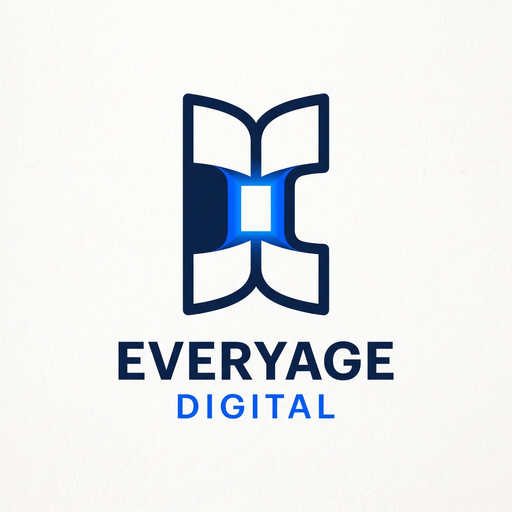
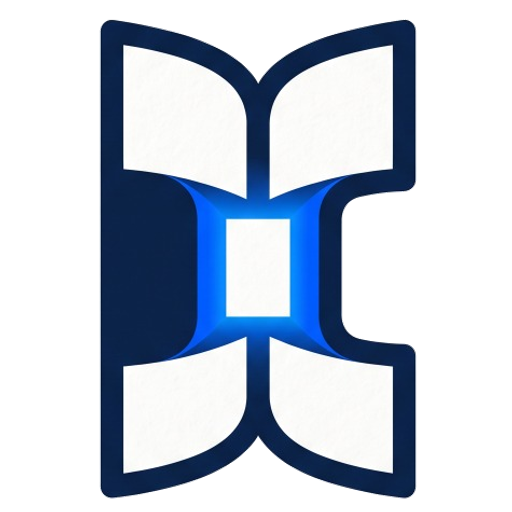
feat: add core layout components, navigation bars, and brand assets

diff --git a/src/app/admin/layout.tsx b/src/app/admin/layout.tsx
@@ -44,25 +44,28 @@ export default function AdminLayout({
       <aside className="hidden md:flex md:w-64 bg-slate-950/80 dark:bg-slate-950/90 backdrop-blur-2xl text-white flex-shrink-0 flex-col justify-between border-r border-white/10 relative z-10">
         <div>
           {/* Brand Header */}
-          <div className="p-4 border-b border-white/10 flex items-center justify-between gap-2">
-            <div className="flex items-center gap-2.5">
-              <div className="w-8 h-8 rounded-lg overflow-hidden bg-white p-0.5 shrink-0 border border-white/10 shadow-xs">
+          <div className="p-4 border-b border-white/10 flex items-center justify-between gap-3">
+            <div className="flex items-center gap-3 min-w-0">
+              <div className="h-9 w-9 overflow-hidden rounded-xl bg-white p-1 shadow-sm flex items-center justify-center shrink-0">
                 <Image
-                  src="/logo-mark.png"
+                  src="/logo.png"
                   alt="EveryAge Digital Logo"
                   width={32}
                   height={32}
-                  className="w-full h-full object-contain"
+                  className="h-full w-full object-contain"
+                  priority
                 />
               </div>
-              <div>
-                <span className="font-bold text-xs tracking-tight text-white uppercase block leading-none">EveryAge Digital</span>
-                <span className="text-[10px] uppercase font-mono tracking-widest text-neutral-400 block mt-1">
-                  Control Center
+              <div className="min-w-0">
+                <span className="font-bold text-xs tracking-tight text-white uppercase block leading-tight truncate">
+                  EVERYAGE DIGITAL
+                </span>
+                <span className="text-[9px] uppercase font-mono tracking-widest text-neutral-400 block mt-0.5 truncate">
+                  OWNER CONTROL CENTER
                 </span>
               </div>
             </div>
-            <span className="text-[10px] bg-emerald-950 text-emerald-300 border border-emerald-800 px-1.5 py-0.5 rounded font-mono">
+            <span className="text-[10px] bg-emerald-950 text-emerald-300 border border-emerald-800 px-1.5 py-0.5 rounded font-mono shrink-0">
               v1.0
             </span>
           </div>

diff --git a/src/components/ui/SiteHeader.tsx b/src/components/ui/SiteHeader.tsx
@@ -82,23 +82,13 @@ export function SiteHeader() {
       <div className="max-w-7xl mx-auto px-4 sm:px-6 lg:px-8 h-16 flex items-center justify-between gap-3 relative">
         {/* Logo & Brand Identity */}
         <div className="flex items-center gap-6">
-          <Link href="/" className="flex items-center gap-2.5 sm:gap-3 group touch-target">
-            <div className="relative w-8 h-8 sm:w-9 sm:h-9 rounded-xl overflow-hidden bg-white p-0.5 border border-purple-200/60 dark:border-white/10 shadow-xs shrink-0 group-hover:scale-105 transition-transform duration-200">
-              <Image
-                src="/logo-mark.png"
-                alt="EveryAge Digital Logo"
-                width={36}
-                height={36}
-                className="w-full h-full object-contain"
-                priority
-              />
-            </div>
-            <div className="flex items-baseline gap-1.5">
-              <span className="font-serif text-xl sm:text-2xl font-bold tracking-tight text-slate-900 dark:text-white group-hover:text-purple-600 dark:group-hover:text-blue-400 transition-colors">
-                EveryAge
-              </span>
-              <span className="text-[10px] sm:text-xs font-mono uppercase tracking-widest text-purple-700 dark:text-blue-400 font-semibold bg-purple-500/10 border border-purple-500/20 dark:bg-blue-500/10 dark:border-blue-500/20 px-1.5 sm:px-2 py-0.5 rounded-md backdrop-blur-md">
-                Digital
+          <Link href="/" className="hover:opacity-90 transition-opacity touch-target">
+            <div className="flex items-center gap-3">
+              <div className="h-10 w-10 overflow-hidden rounded-xl bg-white p-1 shadow-sm flex items-center justify-center shrink-0">
+                <Image alt="EveryAge Digital" className="h-full w-full object-contain" height={36} priority src="/logo.png" width={36}/>
+              </div>
+              <span className="font-bold text-lg text-slate-900 dark:text-white tracking-tight">
+                EveryAge <span className="text-xs uppercase tracking-widest text-blue-500 font-semibold ml-1">Digital</span>
               </span>
             </div>
           </Link>

diff --git a/src/components/ui/SiteFooter.tsx b/src/components/ui/SiteFooter.tsx
@@ -67,21 +67,21 @@ export function SiteFooter() {
       <div className="max-w-7xl mx-auto space-y-8 sm:space-y-10">
         {/* Brand Banner with Logo */}
         <div className="flex flex-col sm:flex-row sm:items-center justify-between gap-4 pb-8 border-b border-purple-200/40 dark:border-white/10">
-          <Link href="/" className="flex items-center gap-3.5 group">
-            <div className="w-12 h-12 rounded-2xl overflow-hidden bg-white p-1 border border-purple-200/60 dark:border-white/10 shadow-sm shrink-0 group-hover:scale-105 transition-transform duration-200">
+          <Link href="/" className="flex items-center gap-3.5 group hover:opacity-90 transition-opacity">
+            <div className="h-11 w-11 overflow-hidden rounded-xl bg-white p-1 shadow-sm flex items-center justify-center shrink-0">
               <Image
-                src="/logo-mark.png"
+                src="/logo.png"
                 alt="EveryAge Digital Logo"
-                width={48}
-                height={48}
-                className="w-full h-full object-contain"
+                width={40}
+                height={40}
+                className="h-full w-full object-contain"
               />
             </div>
             <div>
               <div className="flex items-baseline gap-1.5">
                 <span className="font-serif text-2xl font-bold text-slate-900 dark:text-white">EveryAge</span>
                 <span className="text-xs font-mono uppercase tracking-widest text-purple-700 dark:text-blue-400 font-semibold bg-purple-500/10 border border-purple-500/20 dark:bg-blue-500/10 dark:border-blue-500/20 px-1.5 py-0.5 rounded-md">
-                  Digital
+                  DIGITAL
                 </span>
               </div>
               <p className="text-xs text-slate-500 dark:text-slate-400 mt-1">

diff --git a/src/components/admin/AdminMobileNav.tsx b/src/components/admin/AdminMobileNav.tsx
@@ -55,18 +55,19 @@ export function AdminMobileNav() {
       {/* Top Header Row */}
       <div className="flex items-center justify-between px-4 py-2.5">
         <div className="flex items-center gap-2.5">
-          <div className="w-7 h-7 rounded-lg overflow-hidden bg-white p-0.5 shrink-0 border border-white/10 shadow-xs">
+          <div className="h-8 w-8 overflow-hidden rounded-xl bg-white p-0.5 shadow-sm flex items-center justify-center shrink-0">
             <Image
-              src="/logo-mark.png"
+              src="/logo.png"
               alt="EveryAge Digital Logo"
               width={28}
               height={28}
-              className="w-full h-full object-contain"
+              className="h-full w-full object-contain"
+              priority
             />
           </div>
           <div>
-            <span className="font-bold text-xs tracking-tight uppercase block leading-none">EveryAge Admin</span>
-            <span className="text-[10px] font-mono text-neutral-400">Control Center</span>
+            <span className="font-bold text-xs tracking-tight uppercase block leading-none">EVERYAGE DIGITAL</span>
+            <span className="text-[9px] uppercase font-mono tracking-widest text-neutral-400 block mt-0.5">OWNER CONTROL CENTER</span>
           </div>
         </div>
 

diff --git a/src/app/layout.tsx b/src/app/layout.tsx
@@ -19,19 +19,11 @@ const geistMono = Geist_Mono({
 
 export const metadata: Metadata = {
   metadataBase: new URL(process.env.NEXT_PUBLIC_SITE_URL || 'https://everyagedigital.com'),
-  title: {
-    default: "EveryAge Digital — Curated Products, Books & Digital Resources",
-    template: "%s | EveryAge Digital"
-  },
+  title: "EveryAge Digital | Curated Commerce",
   description: "A curated affiliate commerce storefront and digital-product store helping you discover useful everyday products, books, and knowledge resources.",
   icons: {
-    icon: [
-      { url: '/icon.png', sizes: '512x512', type: 'image/png' },
-      { url: '/logo-mark.png', sizes: '192x192', type: 'image/png' }
-    ],
-    apple: [
-      { url: '/apple-icon.png', sizes: '180x180', type: 'image/png' }
-    ]
+    icon: "/icon.png",
+    apple: "/icon.png",
   },
   openGraph: {
     type: "website",

diff --git a/src/components/Header.tsx b/src/components/Header.tsx
@@ -1,0 +1,1 @@
+export { SiteHeader as default, SiteHeader } from './ui/SiteHeader';

diff --git a/src/components/Navbar.tsx b/src/components/Navbar.tsx
@@ -1,0 +1,1 @@
+export { SiteHeader as default, SiteHeader } from './ui/SiteHeader';
